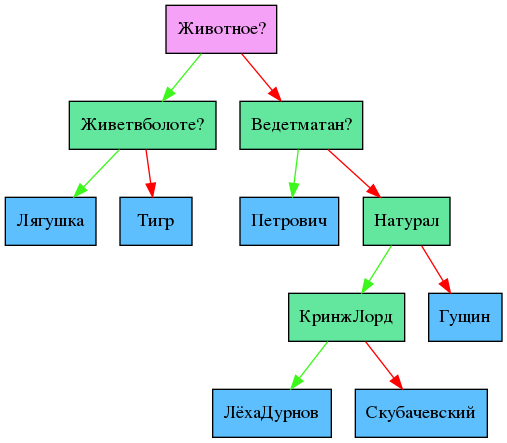
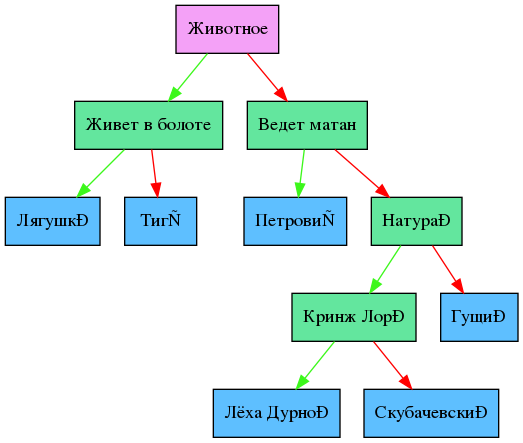
now you can add object with spaces

diff --git a/akinator.cpp b/akinator.cpp
@@ -50,9 +50,6 @@ int ReadBuffer(char **buffer, FILE *stream)
     return 0;
 }
 
-// read tree
-// write tree
-
 AkinStatus GetString(char **ptr, char *end_ptr, char **string)
 {
     if (ptr == nullptr || *ptr == nullptr || end_ptr == nullptr) return PTR_IS_NULL;
@@ -61,14 +58,31 @@ AkinStatus GetString(char **ptr, char *end_ptr, char **string)
         return PTR_BIGGER_BUFF_END;
 
     *string = (char *) calloc(MAX_STRING_LEN, sizeof(char));
-    int number = 0, check = 0;
+    int number = 0;
 
-    int count = sscanf(*ptr, " %s %n}", *string, &number);
-    if (count <= 0 || number == 0)
-        return GABELLA;
+    assert(**ptr != '}');
 
-    (*ptr) += number;
-    assert(*ptr <= end_ptr);
+    while (*(*ptr + 1) != '}' && *(*ptr + 1) != '{')
+    {
+        if (*ptr + 1 >= end_ptr)
+            return GABELLA;
+
+        if (number + 1 >= MAX_STRING_LEN)
+            return MAX_STRING_LEN_REACHED;
+
+        (*string)[number++] = **ptr;
+
+        (*ptr)++;
+    }
+
+    assert(number < MAX_STRING_LEN);
+
+    if ((*string)[number] != ' ')
+        fprintf(stderr, "WHY YOU CANT JUST PUT SPACES AFTER NAME\n");
+
+    (*string)[number] = '\0';
+
+    assert(*ptr < end_ptr);
     
     return DEAD_INSIDE;
 }
@@ -94,15 +108,17 @@ AkinStatus TreeReadProcessing(Tree_t *tree, Node_t *node, char **ptr, char *end_
     if (**ptr == '{')
     {        
         (*ptr)++;
+
         GO_NEXT_CYCLE(node);
     }
 
     if (*ptr < end_ptr && **ptr == '}')
     {
-        (*ptr)++;
         if (node == nullptr)
             return FUCK_MY_LIFE;
         
+        (*ptr)++;
+
         if (node->parent != nullptr)
             GO_NEXT_CYCLE(node->parent);
     }
@@ -114,6 +130,8 @@ AkinStatus TreeReadProcessing(Tree_t *tree, Node_t *node, char **ptr, char *end_
         status = GetString(ptr, end_ptr, &string);
         if (status)
             return status;
+
+        (*ptr)++;
 
         if (node == nullptr)
         {

diff --git a/akinator.h b/akinator.h
@@ -29,6 +29,7 @@ enum AkinStatus
     PTR_IS_NULL                   = 1 << 18,
     PTR_BIGGER_BUFF_END           = 1 << 19,
     READ_WAS_UNSUCCESSFUL         = 1 << 20,
+    MAX_STRING_LEN_REACHED        = 1 << 21,
 
     FUCK_MY_LIFE                  = 1 << 29,
     PIZDEC                        = 1 << 30,
